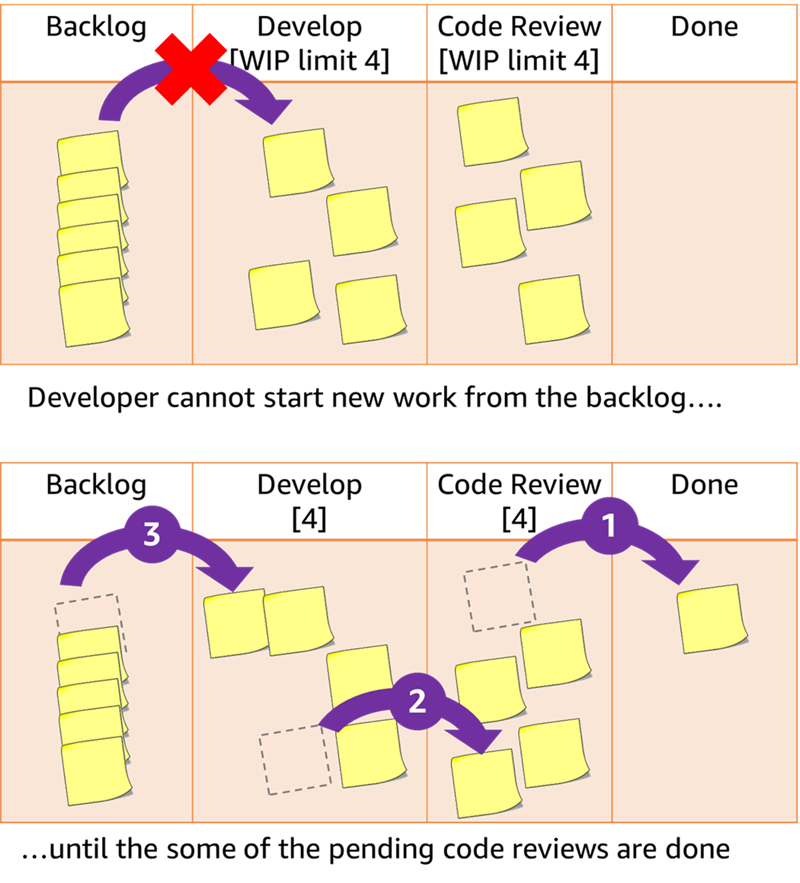
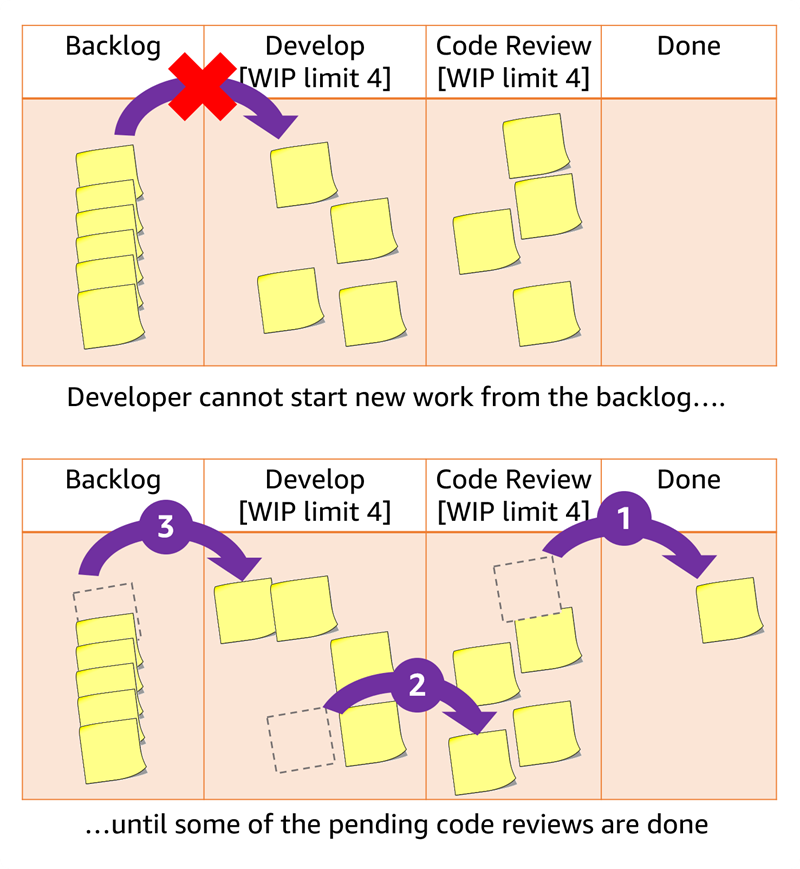
devops-wrong-answers-only updates after tech review

Changed region(s): [[0.0, 0.0, 1.0, 0.9942]]

diff --git a/posts/devops-wrong-answers-only/index.md b/posts/devops-wrong-answers-only/index.md
@@ -1,6 +1,6 @@
 ---
 title: "How to Succeed at DevOps: Wrong Answers Only!"
-description: "When it comes to DevOps, you’ve got questions, and we’ve got answers. Wrong answers. Software teams have been struggling  for ages with the questions I pose here, and in that time we have all witnessed our share of bad answers from unrealistic management, or even misguided senior engineers. Let’s learn from these bad answers and see why they just don’t work."
+description: "When it comes to DevOps, you’ve got questions, and we’ve got answers --Wrong answers. Read on to learn from the bad answers we've encountered and why they're wrong."
 tags:
   - devops
   - testing
@@ -9,6 +9,7 @@ authorGithubAlias: setheliot
 authorName: Seth Eliot
 date: 2023-03-22
 ---
+Software teams have been struggling  for ages with the questions I pose here, and in that time we have all witnessed our share of bad answers from unrealistic management, or even misguided senior engineers. Let’s learn from these bad answers and see why they just don’t work.
 
 ## Walls
 
@@ -16,9 +17,11 @@ date: 2023-03-22
 
 Our development team owns the design and implementation of an application, while our operations team is separate, and owns deployment to production and running it there. Handoff from development to operations is often insufficient to inform the operations team of everything they needed to know. When operations integrates the systems into production, there are often unanticipated problems.
 
+It's like there is a wall between development and operations. Deploying code is a bit like shooting an arrow over that wall at a target our developers cannot see and hoping the operations team can just take care of it (Figure 1).
+
 How do we break down walls between development and operations?
 
-![development team and operations team separated by a wall](images/figure1.jpg "Figure 1. Development team on the left (overdressed for launch day), production on the right, operations team hiding somewhere on the right... possibly behind target") 
+![On the left there is a developer who is overdressed for launch day. In the middle there is a tall wall they cannot see over. Hidden behind the wall is a target](images/figure1.jpg "Figure 1. Development team on the left (overdressed for launch day), production on the right, operations team hiding somewhere on the right... possibly behind target") 
 
 ### The answer
 
@@ -26,7 +29,9 @@ We’ve decided to rename the "operations" team to be a "DevOps" team and make a
 
 ### Why that’s wrong
 
-Yes, folks taking on DevOps engineering roles is a good thing. But these DevOps engineers aren't your grandparents' operations team. They don't take a hand-off from developers and run the application in production for the them. Instead, they work with developers to create and design systems and processes that enable those developers to own their application from implementation all the way to running in production. A DevOps engineer may help implement CI/CD pipelines, create infrastructure as code templates for developers to use to stand up cloud resources, or implement observability and monitoring systems so developers have awareness of what their applications (and the users of those applications) are doing in production.
+In DevOps all team members, regardless of role, have a shared goal on delivering value to the customer. When "the wall" is there, they can have opposing goals, with developers pushed to quickly build new features and operators measured on system stability.
+
+So yes, folks taking on DevOps engineering roles is a good thing. But these DevOps engineers aren't your grandparents' operations team. They don't take a hand-off from developers and run the application in production for the them. Instead, they work with developers to create and design systems and processes that enable those developers to own their application from implementation all the way to running in production. A DevOps engineer may help implement CI/CD pipelines, create infrastructure as code templates for developers to use to stand up cloud resources, or implement observability and monitoring systems so developers have awareness of what their applications (and the users of those applications) are doing in production.
 
 <br/>
 
@@ -34,7 +39,7 @@ Yes, folks taking on DevOps engineering roles is a good thing. But these DevOps 
 
 ### The question
 
-It takes too long to deliver products and features for those products. From the time we learn a feature is needed by users, to the time that feature is delivered, is way too long.
+It takes too long to deliver products and features for those products. The time from when we learn a feature is needed by users, to the time that feature is delivered, is way too long.
 
 How can we deliver customer value faster?
 
@@ -44,19 +49,19 @@ Just go faster. Don’t you know what “faster” means?
 
 Work harder and get that code delivered!
 
-Skip the code review. Not only do code reviews take time to do, it take forever to find someone on the team to do one. Why review code that is already written, when you can be coding and releasing new features?
+Skip the code review. Not only do code reviews take time to do, it takes forever to find someone on the team to do one. Why review code that is already written, when you can be coding and releasing new features?
 
 And while we’re at it, take it easy testing by developers. Instead, hand it off to the test team. Customers do not care about your unit test coverage, they care about features. Let the test team do their thing, and you do yours... write code.
 
-![I asked for that new feature this morning](images/figure2.jpg "Figure 2. I asked for that new feature this morning. Can’t you just use Kubernetes or something?") 
+![A manager is frowning while pointing to the watch on their wrist](images/figure2.jpg "Figure 2. I asked for that new feature this morning. Can’t you just use Kubernetes or something?") 
 
 ### Why that’s wrong
 
-Jeff Bezos famously said you cannot just ask folks to try better (or in this case just go faster). Good intentions do not work because people already have good intentions. Instead we can look at [mechanisms](https://docs.aws.amazon.com/wellarchitected/latest/operational-readiness-reviews/building-mechanisms.html)using processes and tools to release sooner.
+Jeff Bezos famously said you cannot just ask folks to try better (or in this case just go faster). Good intentions do not work because people already have good intentions. Instead we can look at building [mechanisms](https://docs.aws.amazon.com/wellarchitected/latest/operational-readiness-reviews/building-mechanisms.html) using processes and tools to release sooner.
 
-Code review and testing are both important mechanisms to identify problems early, and fix them. The earlier we find and fix problems, the less expensive (in both monetary cost, and cost to customer trust) they are. For code review consider using automation to help. [Amazon CodeGuru Reviewer](https://docs.aws.amazon.com/codeguru/latest/reviewer-ug/welcome.html) uses machine learning and automated reasoning to identify critical issues, security vulnerabilities, and hard-to-find bugs during application development and provides recommendations to improve code quality. You can get hands-on with the CodeGuru in the[](https://catalog.us-east-1.prod.workshops.aws/workshops/fa518794-acd4-4178-80d3-97fa62f9deff/en-US/codegurupr)[Amazon Code Guru Workshop here](https://catalog.us-east-1.prod.workshops.aws/workshops/1786241d-967f-4195-99ef-5716ef485201/en-US). But you also need a human reviewer too - the machines are not quite ready to replace us yet. One process to encourage folks to do code reviews instead of coding new features is using a WIP (Work in Process) limits. This concept, [taken from Kanban](http://www.setheliot.com/blog/2016/07/20/how-wip-limits-work-to-help-you-get-more-stuff-done/), limits how much new work can be started until existing work is done, where “done” *includes* code review. This is shown in figure 3, where each yellow note represents a coding task. Developers cannot take new work (and exceed the “Develop” WIP limit of 4) until some code reviews are completed.
+Code review and testing are both important mechanisms to identify problems early, and fix them. The earlier we find and fix problems, the less expensive (in both monetary cost, and cost to customer trust) they are. While code review can be time consuming, you can use automation to help lighten the load. Tools like [Amazon CodeGuru Reviewer](https://docs.aws.amazon.com/codeguru/latest/reviewer-ug/welcome.html) use machine learning and automated reasoning to identify critical issues, security vulnerabilities, and hard-to-find bugs during application development and provides recommendations to improve code quality. You can get hands-on with the CodeGuru in the [Amazon Code Guru Workshop](https://catalog.us-east-1.prod.workshops.aws/workshops/1786241d-967f-4195-99ef-5716ef485201/en-US). But you also need a human reviewer too - the machines are not quite ready to replace us yet. One process to encourage folks to do code reviews instead of coding new features is using a WIP (Work in Process) limits. This concept, [taken from Kanban](http://www.setheliot.com/blog/2016/07/20/how-wip-limits-work-to-help-you-get-more-stuff-done/), limits how much new work can be started until existing work is done, where “done” *includes* code review. This is shown in figure 3, where each yellow note represents a coding task. Developers cannot take new work (which will cause the the “Develop” WIP limit of 4 to be exceeded) until some code reviews are completed.
 
-![Limiting WIP](images/figure3.png "Figure 3. Limiting WIP can streamline throughput, and incentivizes code reviews.") 
+![Two whiteboards, each with multiple columns and sticky notes illustrate the concept of limiting WIP](images/figure3.png "Figure 3. Limiting WIP can streamline throughput, and incentivizes code reviews.") 
 
 And continuing to explore how to find problems early, a good test suite will be your best friend. Automate it as part of your CI/CD pipeline, and ensure it is high quality (not brittle or noisy). Treat test code as your treat production code (yes, including code reviews). Include [load testing](https://docs.aws.amazon.com/prescriptive-guidance/latest/load-testing/welcome.html) and [chaos engineering](https://aws.amazon.com/blogs/architecture/verify-the-resilience-of-your-workloads-using-chaos-engineering/) to test non-functional requirements like scalability and resilience.
 
@@ -76,7 +81,7 @@ Hold the line. Get all the requirements in writing at the start, and don’t bud
 
 Or.....
 
-The customer is always right!  Give them everything they want, when they ask for it. If it is top of mind to them, then it is number one priority for you. You won’t deliver anything valuable remotely close to your timetable, but then that’s what follow-on contracts are for. Job security still guaranteed.
+The customer is always right! Give them everything they want, when they ask for it. If it is top of mind to them, then it is number one priority for you. You won’t deliver anything valuable remotely close to your timetable, but then that’s what follow-on contracts are for. Job security still guaranteed.
 
 
 ### Why that’s wrong
@@ -100,13 +105,13 @@ How can our development teams reduce overhead and focus on value adding activiti
 
 This one’s easy. The development team does not want to do it — that’s why we have a DevOps team! No task is too big or too small. The DevOps team will run their scripts and their infrastructure as code templates and get it done. Need a Kubernetes cluster? File a ticket to DevOps. Need to change the policy on an IAM role? Drop a message on the DevOps Slack channel.
 
-![DevOps engineer works through his ticket backlog](images/figure4.png "Figure 4. A DevOps engineer works through his ticket backlog (again overdressed — shirt and tie not necessary)")
+![A determined looking DevOps engineer is sitting in a cardboard box as if it's a boat, with a paddle out the side. Instead of water, they are surrounded by pages and tickets of work to do](images/figure4.png "Figure 4. A DevOps engineer works through his ticket backlog (again overdressed — shirt and tie not necessary)")
 
 ### Why that’s wrong
 
-Folks don’t like waiting on a ticket to be serviced. And folks like it even less when they have an insurmountable stream of “muck” work thrown at them. DevOps is about collaboration, not throwing it over the wall (see Figure 1).
+Folks don’t like waiting on a ticket to be serviced. And folks like it even less when they have an insurmountable stream of “[muck](https://aws.amazon.com/blogs/aws/we_build_muck_s/)” work thrown at them. DevOps is about collaboration, not throwing it over the wall (see Figure 1).
  
-A DevOps team can play a key role in creating and maintaining scripts. They can create infrastructure as code templates that are vetted to be compliant with business security and architectural policies. They can create systems that make it easy to find and deploy these templates to stand up cloud infrastructure (like the aforementioned Kubernetes cluster). They do this working with Developers and others as stakeholders. Then the developers use these scripts and infrastructure deployment processes elf-service to stand up what they need. For their part, the DevOps team focuses on removing or automating repetitive or low-value tasks. They then have more time to spend focusing on innovating and enhancing technology quality, without having to take on menial tasks
+A DevOps team can play a key role in creating and maintaining scripts. They can create infrastructure as code templates that are vetted to be compliant with business security and architectural policies. They can create systems that make it easy to find and deploy these templates to stand up cloud infrastructure (like the aforementioned Kubernetes cluster). They do this working with Developers and others as stakeholders. Then the developers use these scripts and infrastructure deployment processes to self-service, and stand up what they need. For their part, the DevOps team focuses on removing or automating repetitive or low-value tasks. They then have more time to spend focusing on innovating and enhancing technology quality, without having to take on menial tasks
  
 The line for what is self-service (using DevOps created tools) and what is done by DevOps depends on the organization. Above I describe an organization where development is almost completely self-service, but with guardrails to help developers maintain compliance with policies. In other cases DevOps may stamp out landing zones in AWS accounts, that Developers can then deploy infrastructure to (using the template library). In some organizations, they prefer security (such as IAM roles) to be a centralized function. What makes it DevOps is a culture of collaboration and ownership.
 
@@ -122,7 +127,7 @@ When our application is running in production, how do we know it is working as i
 
 ### The answer
 
-First of all, the development team lead verified it worked on her machine. Now its in production and we have other teams for that!  The DevOps team deploys it and runs it. Customer service takes the calls from frustrated users and files the bugs. And the support engineers investigate the bugs and fix some of them, and file tickets to the development team for the others. The bugs gets fixed and everyone is happy.
+First of all, the development team lead verified it worked on her machine. Now its in production and we have other teams for that! The DevOps team deploys it and runs it. Customer service takes the calls from frustrated users and files the bugs. And the support engineers investigate the bugs and fix some of them, and file tickets to the development team for the others. The bugs gets fixed and everyone is happy.
 
 ### Why that’s wrong
 
@@ -140,7 +145,7 @@ A DevOps team organizes their tools and processes around such measures so as to 
 
 ![Order rate for amazon.com](images/figure6.png "Figure 6. Order rate -- a good KPI for an online retailer. When orders drop below predicted values, it indicates a serious problem with customer experience on the site.")
 
-While we do not want to use our customers as front line “monitoring”, we still want to listen to their needs and add requirements to the backlog for future releases to meet those needs. Tracing and instrumentation can be used to gather objective data on how customers use your application. Also, user studies, beta releases, surveys, and social media sentiment analysis are ways to gather subjective data from your customers.
+While we do not want to use our customers as front line “monitoring,” we still want to listen to their needs and add requirements to the backlog for future releases to meet those needs. Tracing and instrumentation can be used to gather objective data on how customers use your application. Also, user studies, beta releases, surveys, and social media sentiment analysis are ways to gather subjective data from your customers.
 
 <br/>
 
